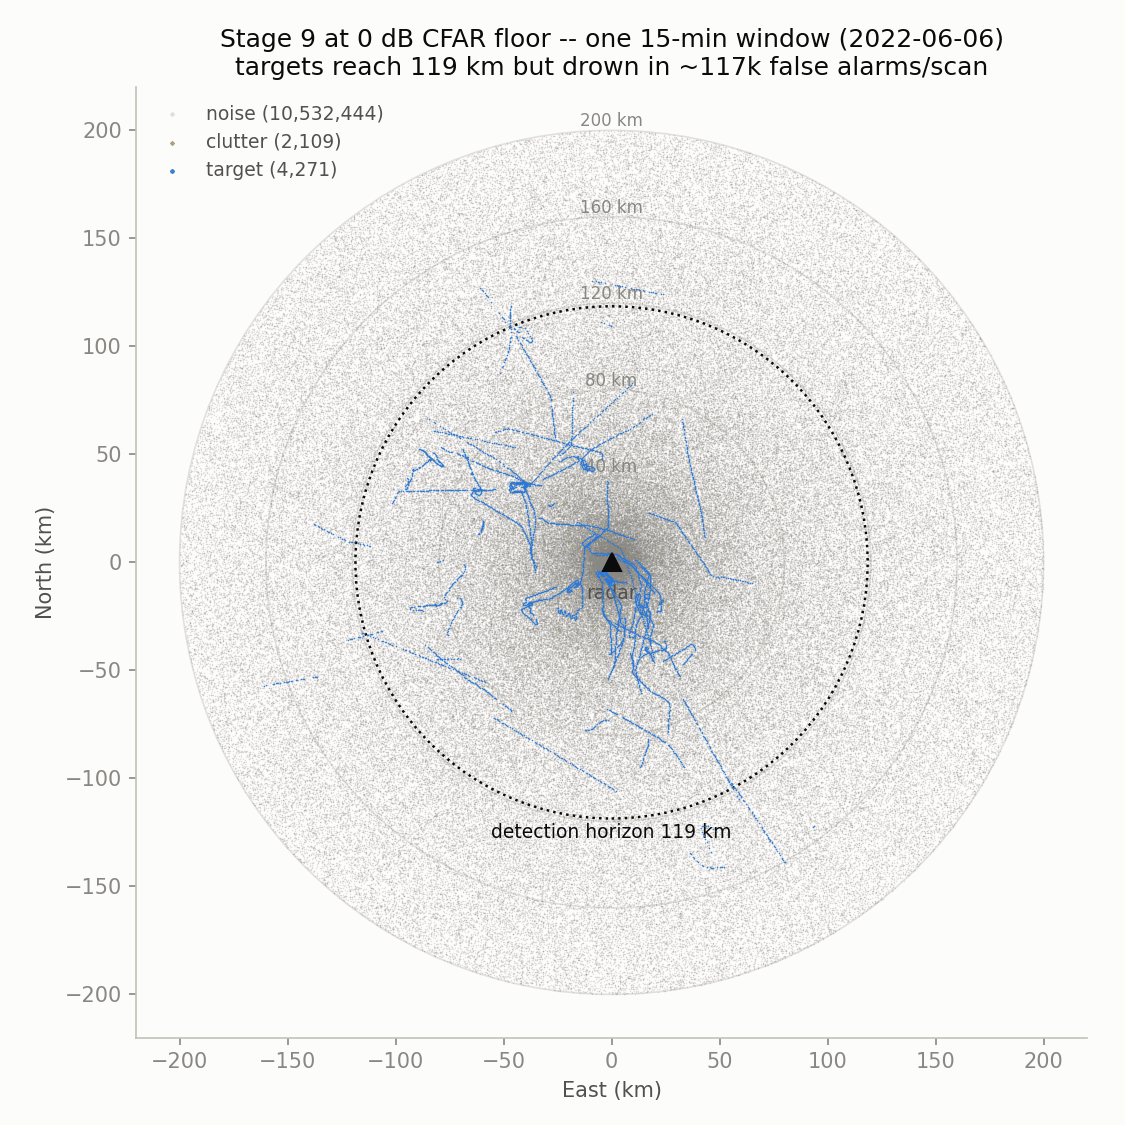
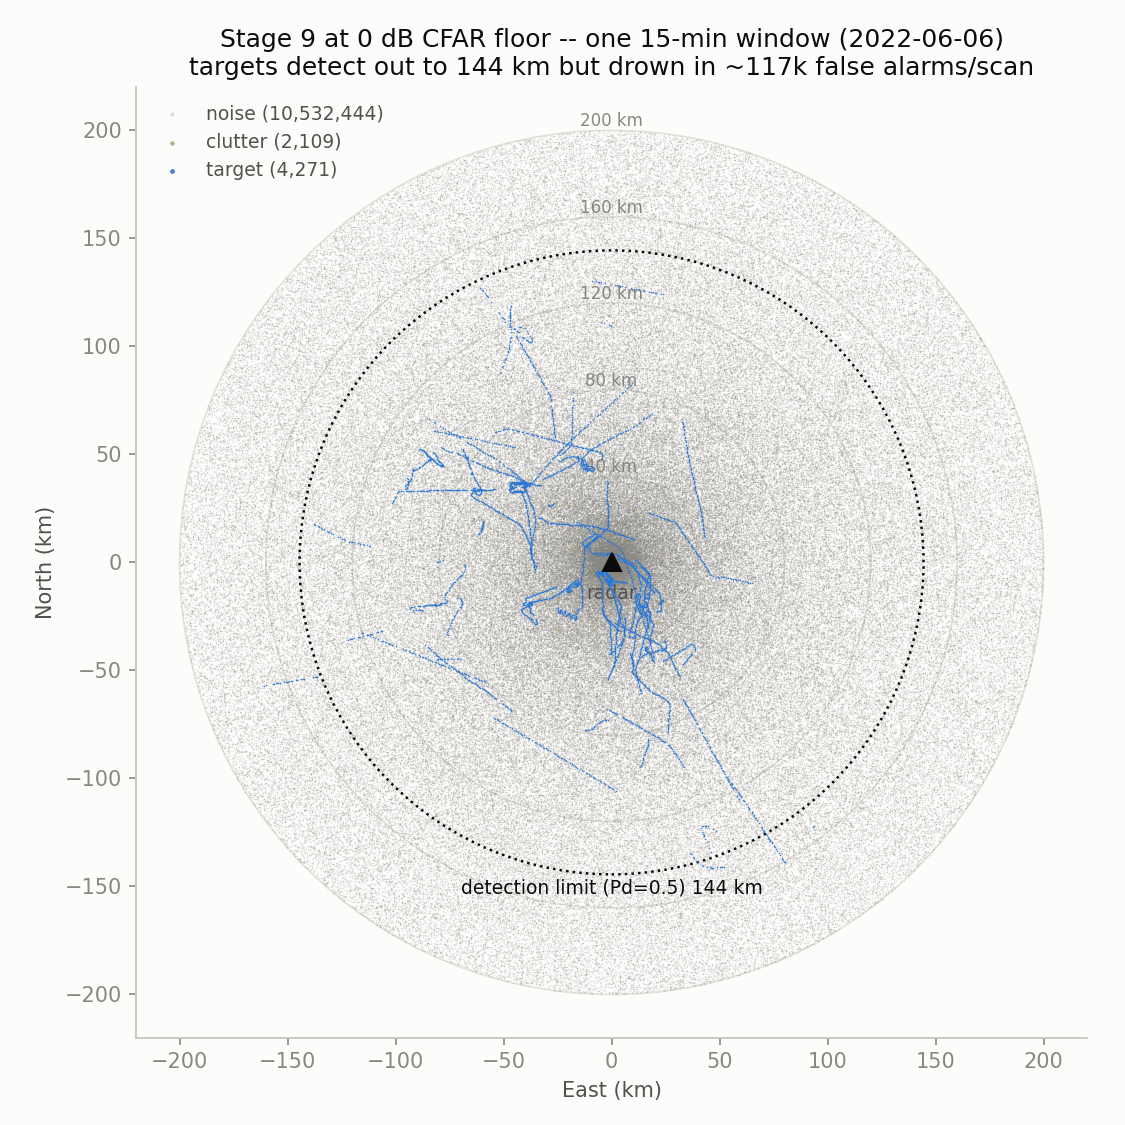
Stage 9 PPIs: show the operational detection limit (Pd=0.5), not the horizon
Figures 7 and 8 are the stochastic (fluctuating) scenes, so the meaningful
range boundary is the Pd=0.5 detection limit, not the mean-SNR horizon.
Ring now labelled "detection limit (Pd=0.5)": 70.5 km (fig 7) and 144 km
(fig 8, up from the 118.6 km horizon). plot_detection_window gains a
ring_label arg. Stage 8 (fig 6) stays "detection horizon" -- deterministic,
so its horizon IS the detection boundary.

Changed region(s): [[0.1867, 0.0311, 0.9022, 0.0933], [0.4044, 0.7778, 0.6844, 0.8089], [0.4356, 0.7156, 0.6533, 0.7467]]

diff --git a/scripts/09_radar_equation_cluttered.py b/scripts/09_radar_equation_cluttered.py
@@ -176,8 +176,8 @@ def zero_db_illustration(sc, day_files, scan_grid) -> None:
     plot_detection_window(
         dets, k0, ZERO_DB_WINDOW_SCANS, sc0.range_max_m / 1000,
         f"Stage 9 at 0 dB CFAR floor -- one 15-min window ({date})\n"
-        f"targets reach {horizon_km:.0f} km but drown in ~{fa_per_scan / 1000:.0f}k false alarms/scan",
-        os.path.join(pdir, "8_0db_PPI.png"), horizon_km=horizon_km)
+        f"targets detect out to {r50:.0f} km but drown in ~{fa_per_scan / 1000:.0f}k false alarms/scan",
+        os.path.join(pdir, "8_0db_PPI.png"), horizon_km=r50, ring_label="detection limit (Pd=0.5)")
     plot_bscope(
         dets, k0, ZERO_DB_WINDOW_SCANS, sc0.range_max_m / 1000,
         f"Stage 9 B-scope at 0 dB CFAR floor -- 15-min window ({date})\n"
@@ -282,13 +282,14 @@ def main() -> None:
     dets0 = pd.read_csv(os.path.join(output_dir, f"radar_detections_{date}.csv"))
     scan_t0, _ = scan_grid[date]
     k0 = 0   # full day
-    # deterministic detection horizon (mean SNR = floor), same ring as stages 8/8-0dB
-    horizon_km = sc.range_ref_m * (10 ** (sc.snr_ref_db / 10) / sc.threshold_lin()) ** 0.25 / 1000
+    # operational detection limit (single-scan Pd = 0.5), the stochastic
+    # counterpart to stage 8's deterministic horizon.
     plot_detection_window(
         dets0, k0, None, sc.range_max_m / 1000,
         f"Stage 9 PPI — radar-equation SNR with clutter and noise ({date}, full day)\n"
         "full day like stages 6-8; distant tracks fade and contamination is on",
-        os.path.join(get_plot_dir(), f"7_PPI_{date}.png"), horizon_km=horizon_km)
+        os.path.join(get_plot_dir(), f"7_PPI_{date}.png"),
+        horizon_km=r50_emp, ring_label="detection limit (Pd=0.5)")
     plot_bscope(
         dets0, k0, None, sc.range_max_m / 1000,
         f"Stage 9 B-scope — radar-equation SNR with clutter and noise ({date}, full day)\n"

diff --git a/utils/plots.py b/utils/plots.py
@@ -79,17 +79,18 @@ def densest_window(crossings_path: str, window_scans: int = 90) -> int:
 
 def plot_detection_window(dets: pd.DataFrame, k0: int, window_scans: int,
                           range_max_km: float, title: str, out_path: str,
-                          horizon_km: float = None, target_s: float = 0.6) -> None:
+                          horizon_km: float = None, target_s: float = 0.6,
+                          ring_label: str = "detection horizon") -> None:
     """PPI scatter of all detections in scans [k0, k0+window_scans), or the
-    full day if window_scans is None. horizon_km draws a dotted ring.
-    target_s sets the target marker size (smaller = thinner tracks)."""
+    full day if window_scans is None. horizon_km draws a dotted range ring
+    (labelled by ring_label). target_s sets the target marker size."""
     win = _select_window(dets, k0, window_scans)
     fig, ax = plt.subplots(figsize=(7.5, 7.5))
     _ppi_axes(ax, range_max_km)
     if horizon_km is not None:
         ax.add_patch(plt.Circle((0, 0), horizon_km, fill=False, color=INK,
                                 lw=1.2, ls=":", zorder=3))
-        ax.annotate(f"detection horizon {horizon_km:.0f} km",
+        ax.annotate(f"{ring_label} {horizon_km:.0f} km",
                     (0, -horizon_km - 2), color=INK, fontsize=9, ha="center", va="top")
     for src, color, s, alpha, z in (("noise", C_NOISE, 0.5, 0.25, 2),
                                     ("clutter", C_CLUTTER, 0.5, 0.8, 4),